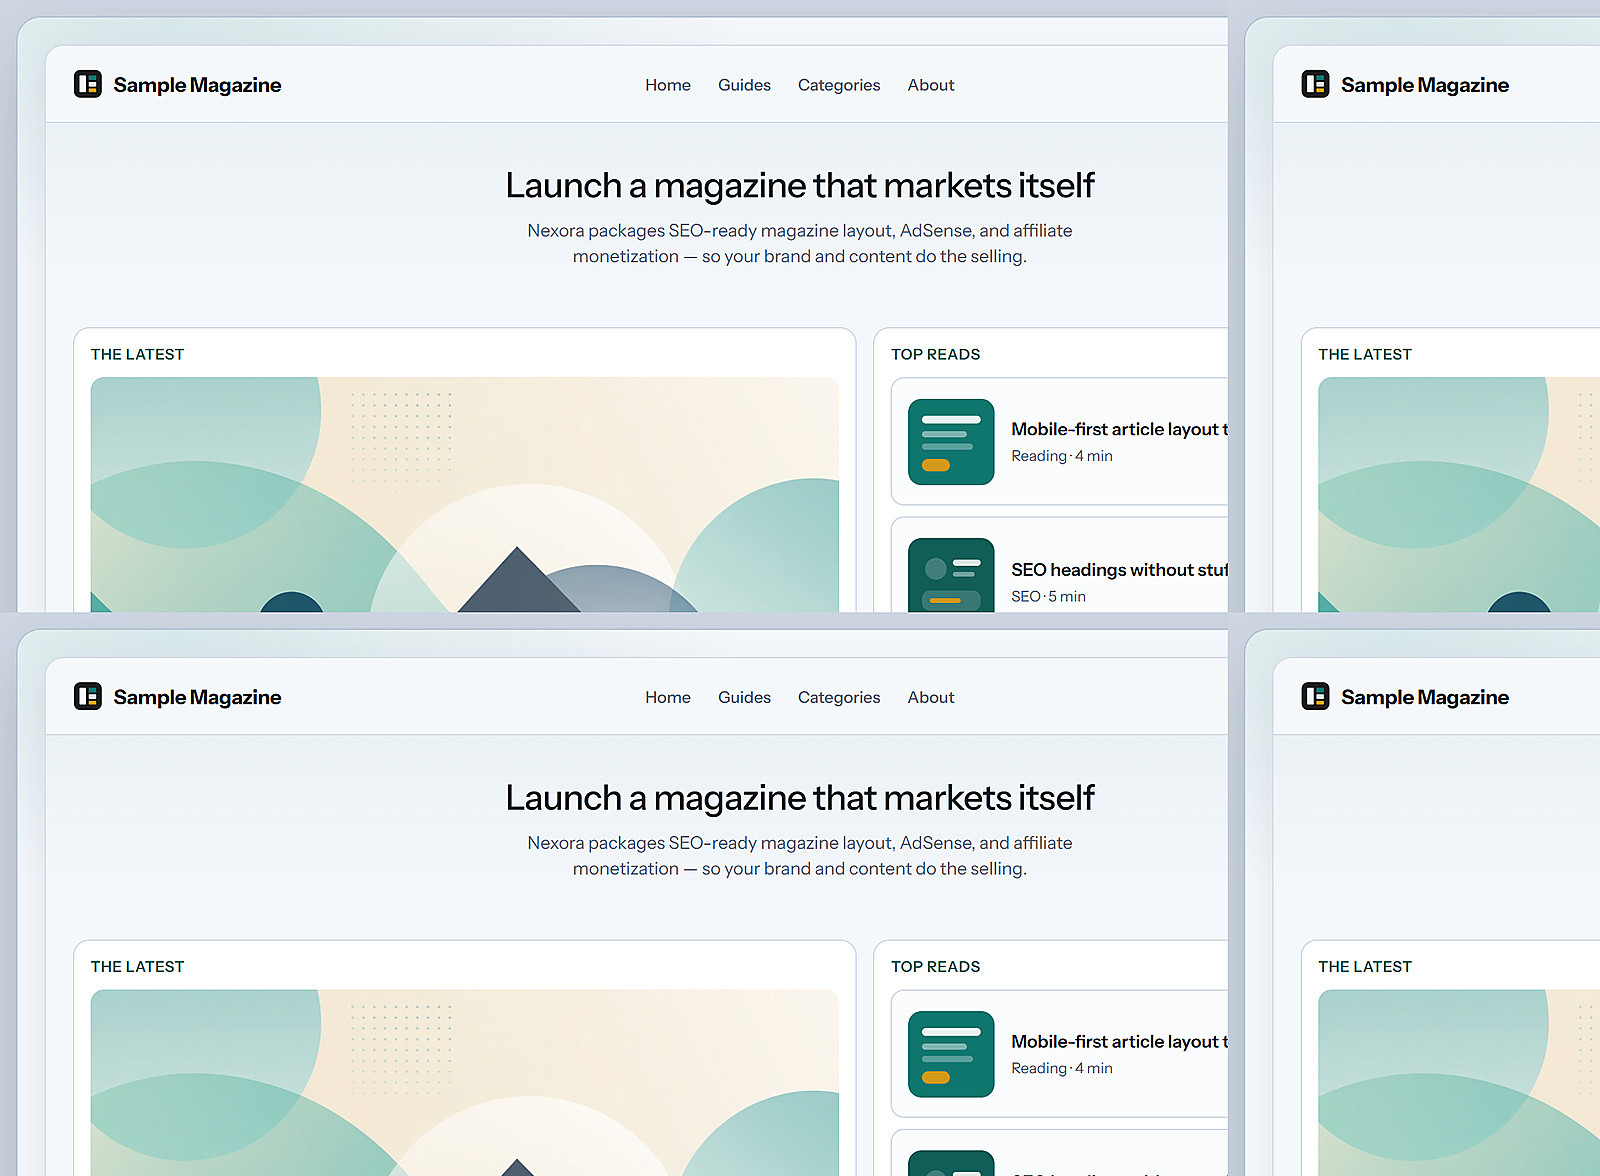
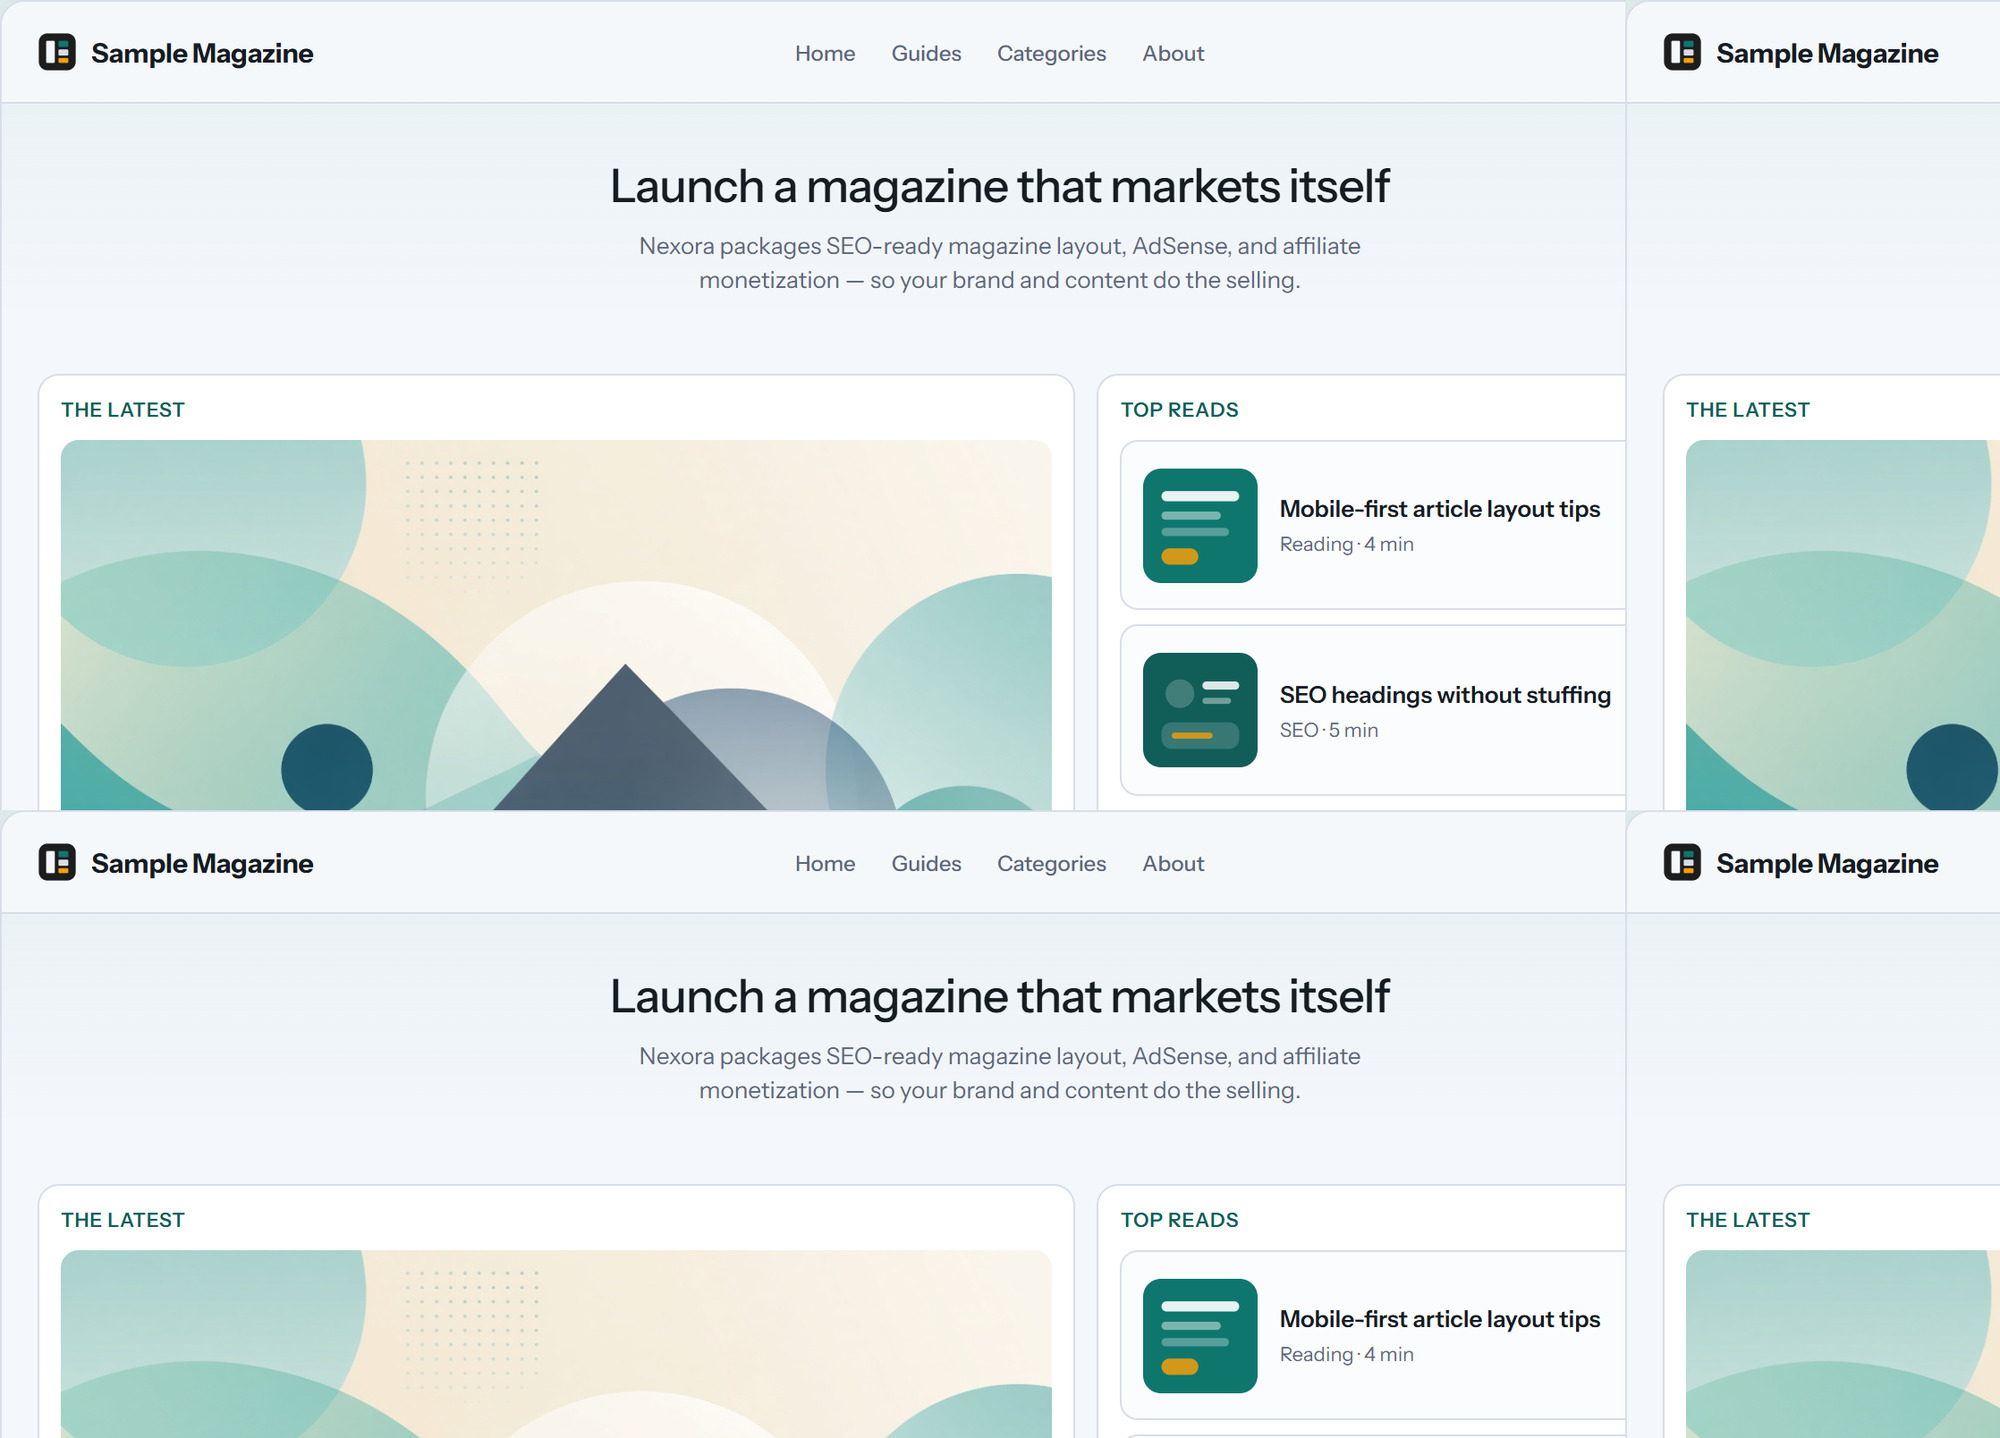
Sharpen product previews: natural aspect, clean recapture, no halo sharpen.

diff --git a/index.html b/index.html
@@ -12,17 +12,17 @@
   <meta property="og:description" content="Magazine, blog, or authority site — with AdSense slots, affiliate CTAs, SEO structure, and a clean Theme Settings dashboard. Download the latest zip free.">
   <meta property="og:type" content="website">
   <meta property="og:url" content="https://nexorawp.github.io/">
-  <meta property="og:image" content="https://nexorawp.github.io/assets/hero-magazine.jpg?v=sitebrand">
+  <meta property="og:image" content="https://nexorawp.github.io/assets/hero-magazine.jpg?v=sharp">
   <meta name="twitter:card" content="summary_large_image">
   <meta name="twitter:title" content="Nexora — Free WordPress Magazine &amp; Authority Blog Theme">
   <meta name="twitter:description" content="SEO-friendly magazine and authority blog theme with AdSense and affiliate monetization. Download nexora-2.0.0-nexora.zip free.">
-  <meta name="twitter:image" content="https://nexorawp.github.io/assets/hero-magazine.jpg?v=sitebrand">
+  <meta name="twitter:image" content="https://nexorawp.github.io/assets/hero-magazine.jpg?v=sharp">
   <link rel="icon" href="assets/logo-mark.svg" type="image/svg+xml">
   <link rel="apple-touch-icon" href="assets/logo-mark-112.png">
   <link rel="preconnect" href="https://fonts.googleapis.com">
   <link rel="preconnect" href="https://fonts.gstatic.com" crossorigin>
   <link href="https://fonts.googleapis.com/css2?family=Instrument+Sans:wght@400;500;600;700&display=swap" rel="stylesheet">
-  <link rel="stylesheet" href="styles.css?v=hero-pad">
+  <link rel="stylesheet" href="styles.css?v=img-sharp">
   <script type="application/ld+json">
   {
     "@context": "https://schema.org",
@@ -143,9 +143,9 @@
             <figure class="device__screen">
               <img
                 class="hero__img"
-                src="assets/hero-magazine.jpg?v=sitebrand"
-                width="1600"
-                height="1196"
+                src="assets/hero-magazine.jpg?v=sharp"
+                width="2000"
+                height="1438"
                 alt="Nexora theme layout — centered nav, Latest, Top Reads, categories"
                 fetchpriority="high"
               >
@@ -279,7 +279,7 @@
                 <span class="device__url">Single post</span>
               </div>
               <figure class="device__screen">
-                <img src="assets/article-layout.jpg?v=sitebrand" width="2000" height="1854" alt="Nexora single post — ad rails beside title, description, and featured image" loading="lazy">
+                <img src="assets/article-layout.jpg?v=sharp" width="2000" height="1221" alt="Nexora single post — ad rails beside title, description, and featured image" loading="lazy">
               </figure>
             </div>
           </div>
@@ -303,7 +303,7 @@
                 <span class="device__url">Appearance → Nexora</span>
               </div>
               <figure class="device__screen">
-                <img src="assets/admin-dashboard.jpg?v=sitebrand" width="2000" height="1322" alt="Appearance → Nexora Overview — theme version, niche, updates, ads, SEO" loading="lazy">
+                <img src="assets/admin-dashboard.jpg?v=sharp" width="2000" height="1208" alt="Appearance → Nexora Overview — theme version, niche, updates, ads, SEO" loading="lazy">
               </figure>
             </div>
           </div>

diff --git a/styles.css b/styles.css
@@ -298,11 +298,10 @@ code {
 .hero__stage::before {
   content: "";
   position: absolute;
-  inset: 12% -4% -8% 8%;
+  inset: 18% 0% -6% 12%;
   background:
-    radial-gradient(closest-side, rgba(15, 118, 110, 0.22), transparent 72%),
-    radial-gradient(closest-side at 70% 40%, rgba(245, 158, 11, 0.14), transparent 70%);
-  filter: blur(8px);
+    radial-gradient(closest-side, rgba(15, 118, 110, 0.16), transparent 72%),
+    radial-gradient(closest-side at 70% 40%, rgba(245, 158, 11, 0.1), transparent 70%);
   z-index: 0;
   pointer-events: none;
 }
@@ -367,9 +366,12 @@ code {
 .device__screen img,
 .hero__img {
   width: 100%;
-  aspect-ratio: 16 / 10;
-  object-fit: cover;
+  height: auto;
+  display: block;
+  object-fit: contain;
   object-position: top center;
+  image-rendering: auto;
+  -webkit-font-smoothing: antialiased;
 }
 
 /* Capability strip — section gap under hero */
